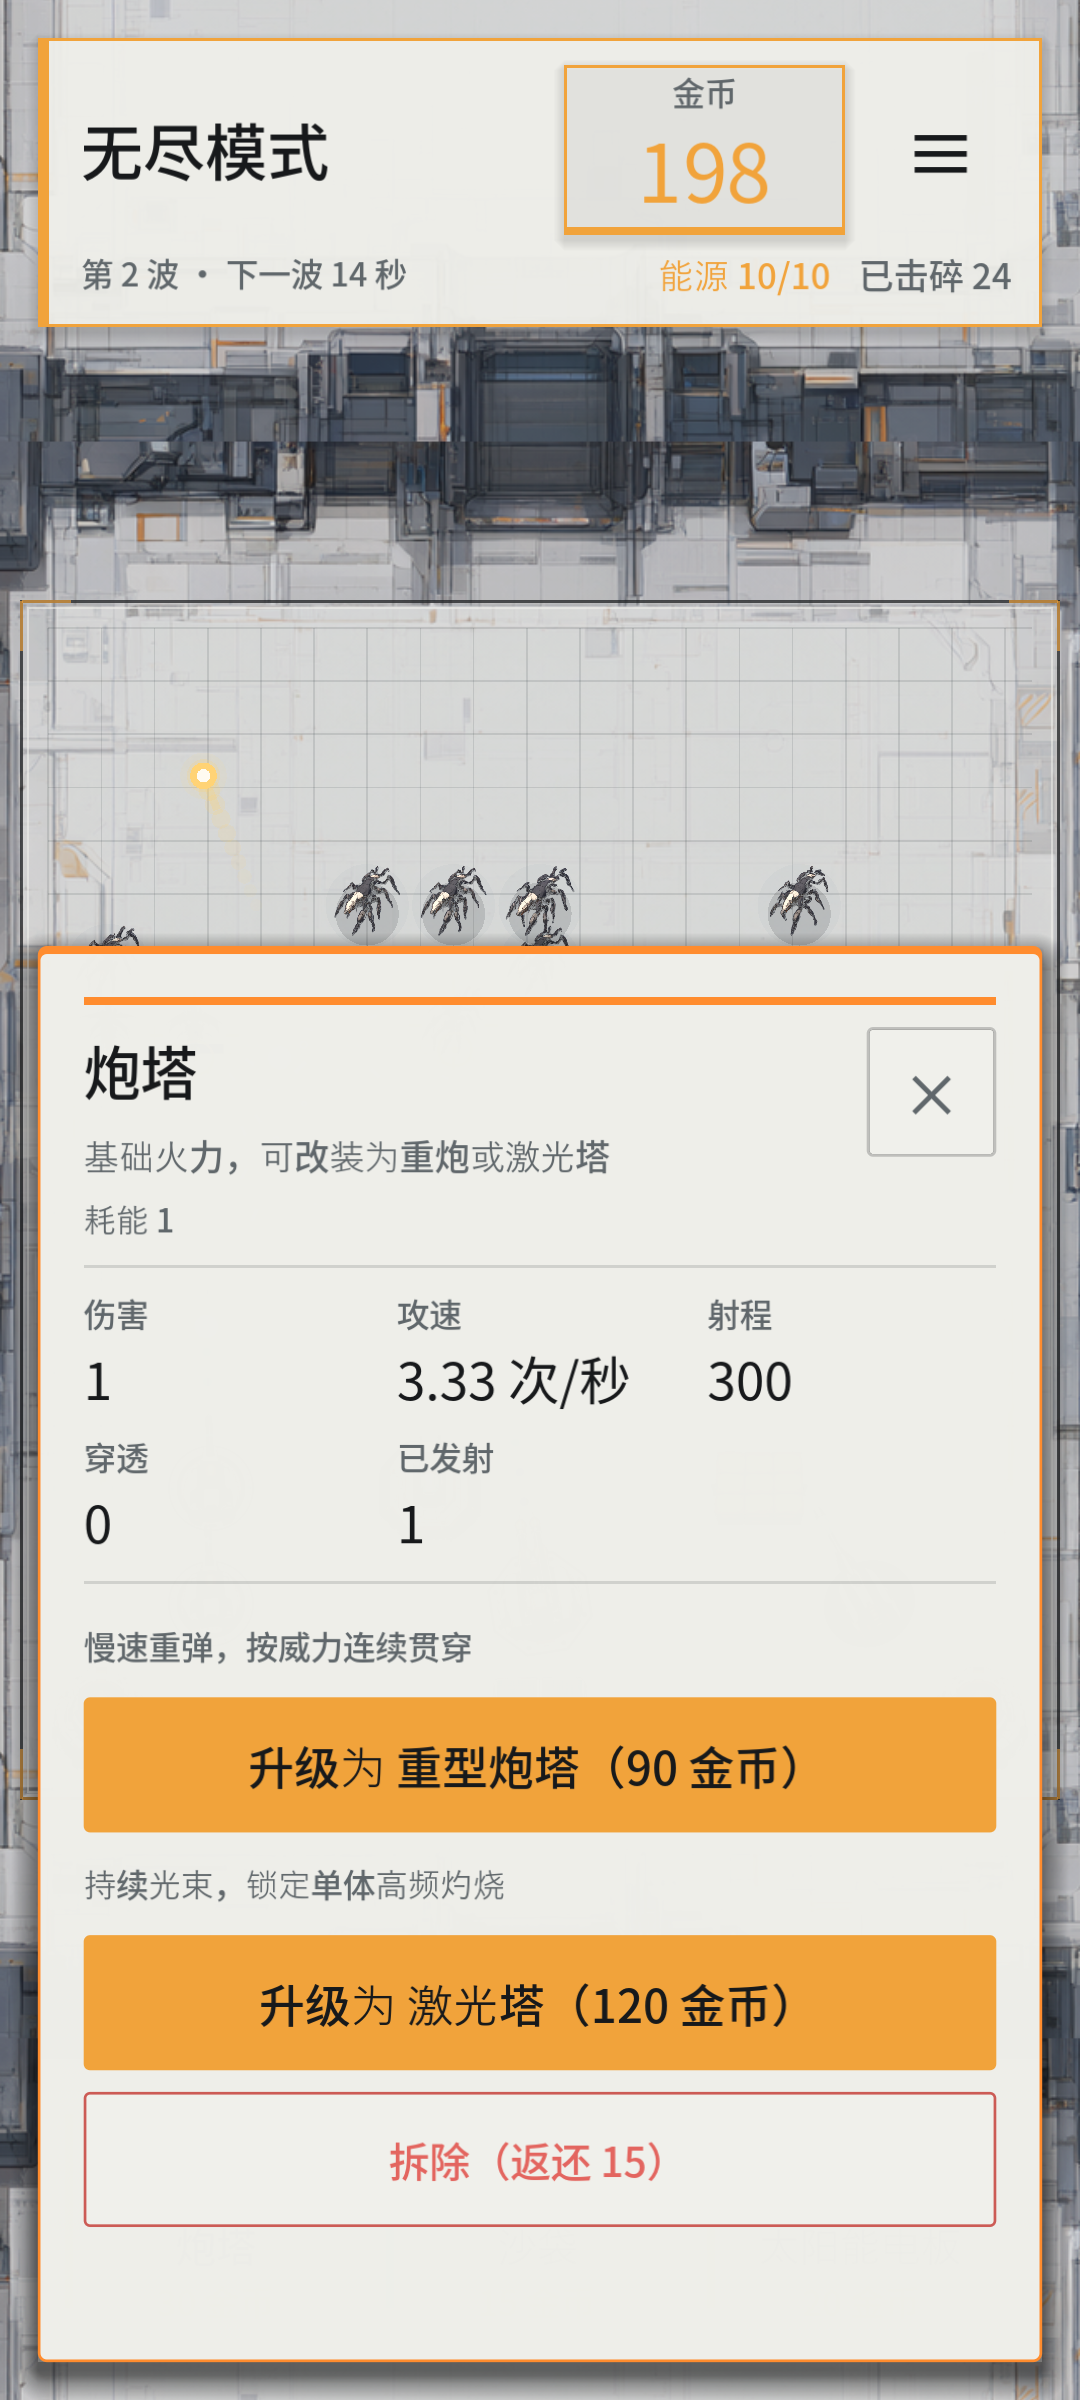
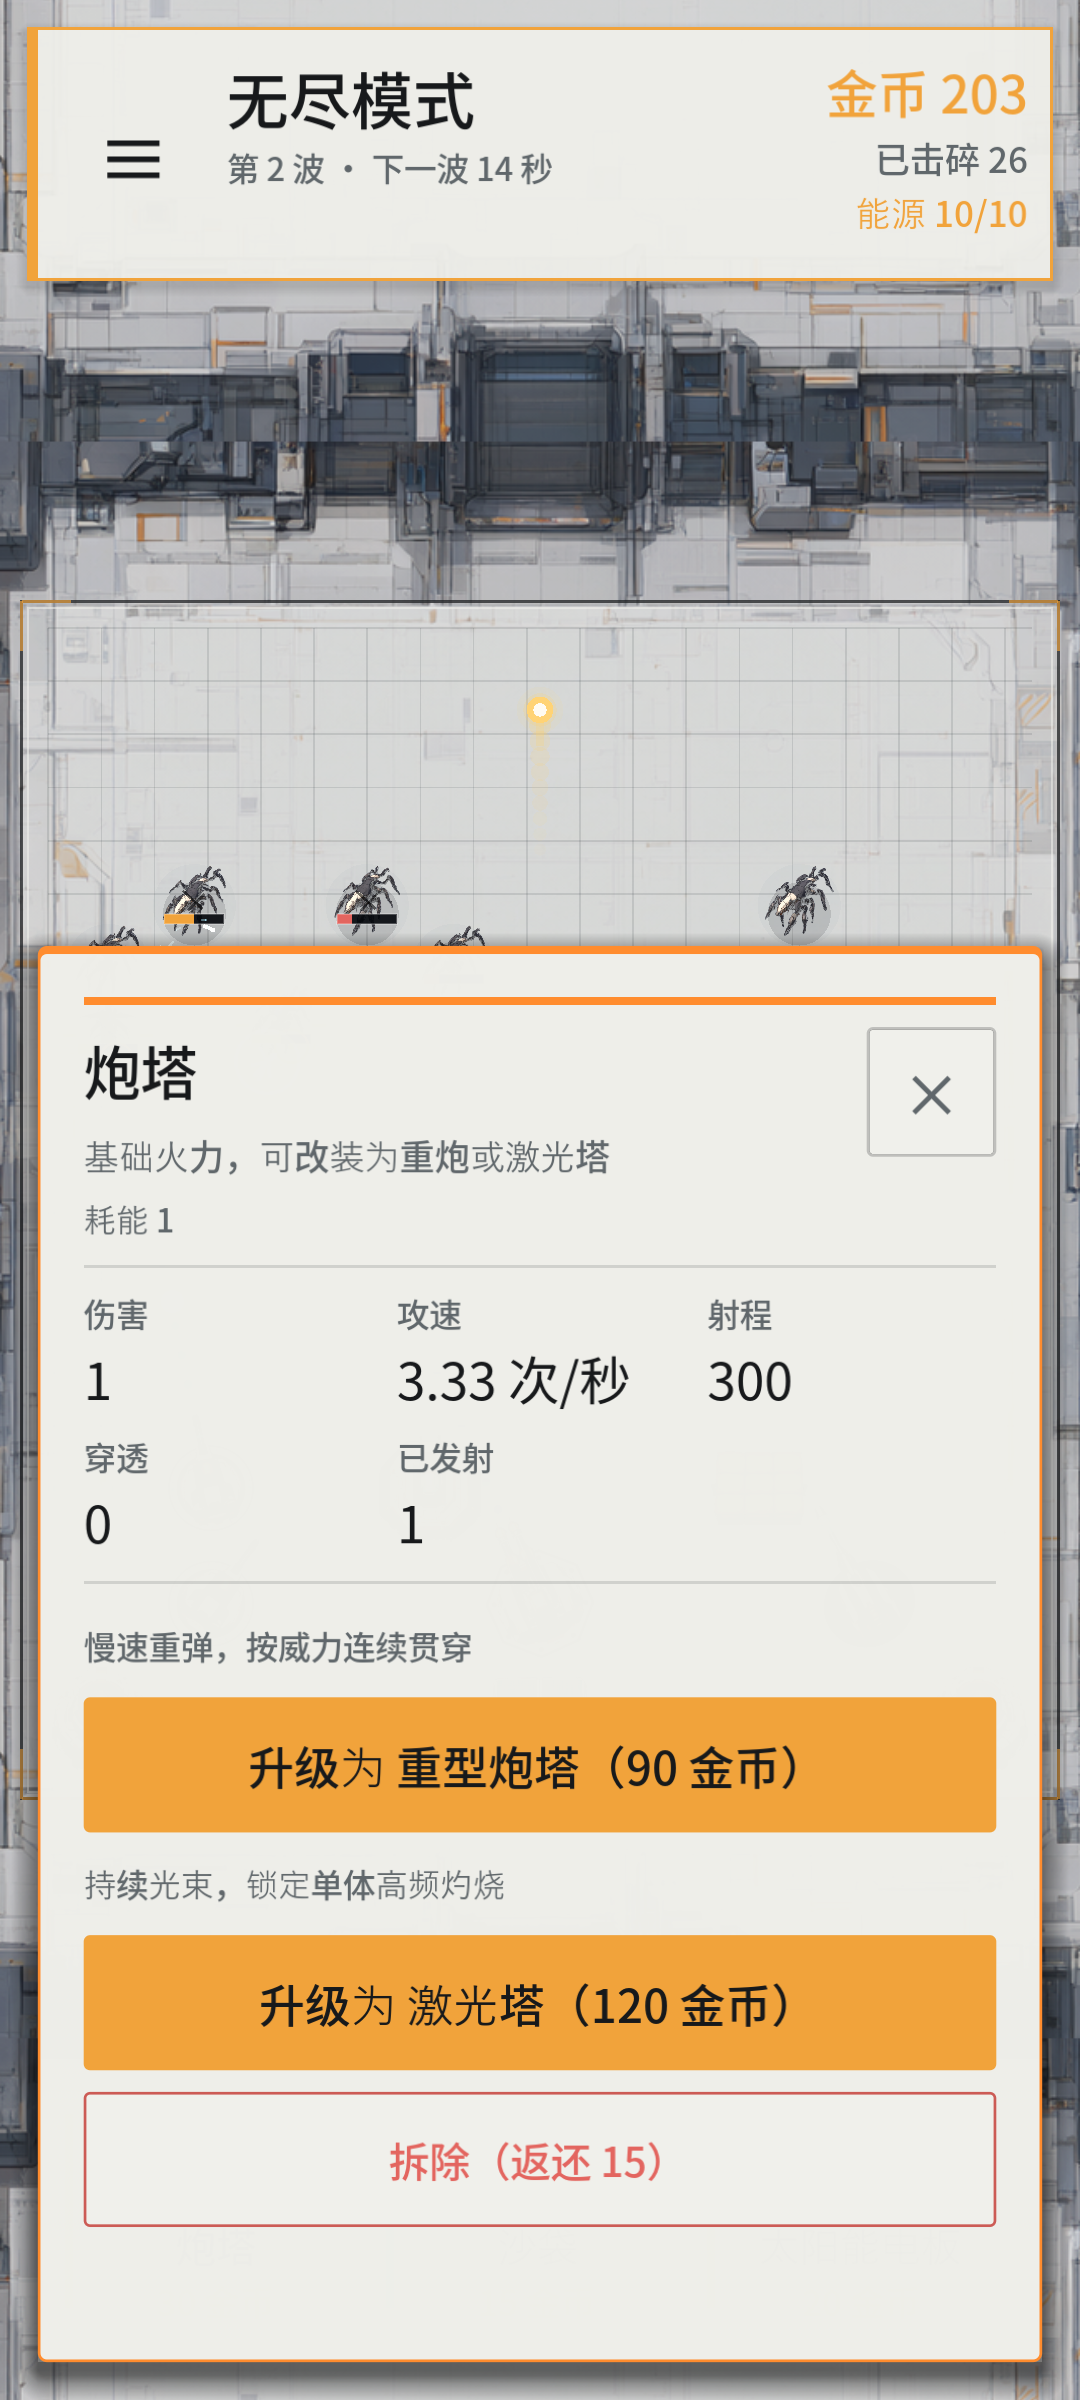
feat: 金币与统计改为右上角单列
- 移除金币大框，金币、击碎数、能源右对齐成三行

- 统计列贴靠顶栏右上角，设置键移到左侧，顶栏边距收窄

- 清理金币标题/数值旧文案并更新预览截图

diff --git a/README.md b/README.md
@@ -16,7 +16,7 @@
 
 初始 50 金币刚好是太阳能电板（20）+ 炮塔（30）。如果先放炮塔，炮塔会因缺电离线，放下太阳能电板后立刻恢复；之后新增建筑如果超出产能，只有新建筑离线，已经运转的建筑不会被拖停。
 
-游戏界面如下图：中间是持续下滚的方块流，底部是可拖拽的建筑道具栏，顶部显示金币、能源、击碎数、当前波次和下一波倒计时。炮塔自动锁定目标并持续开火，玩家负责用金币布置建筑、规划能源和改装形态。
+游戏界面如下图：中间是持续下滚的方块流，底部是可拖拽的建筑道具栏；顶栏右上角一列右对齐显示金币、击碎数和能源，左侧显示当前波次和下一波倒计时。炮塔自动锁定目标并持续开火，玩家负责用金币布置建筑、规划能源和改装形态。
 
 ![游戏截图：方块流、三类建筑与底部道具栏](image.png)
 
